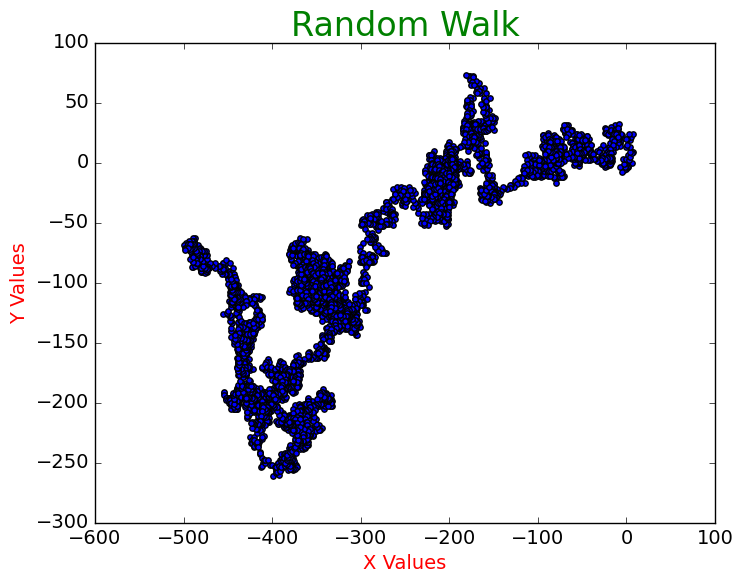
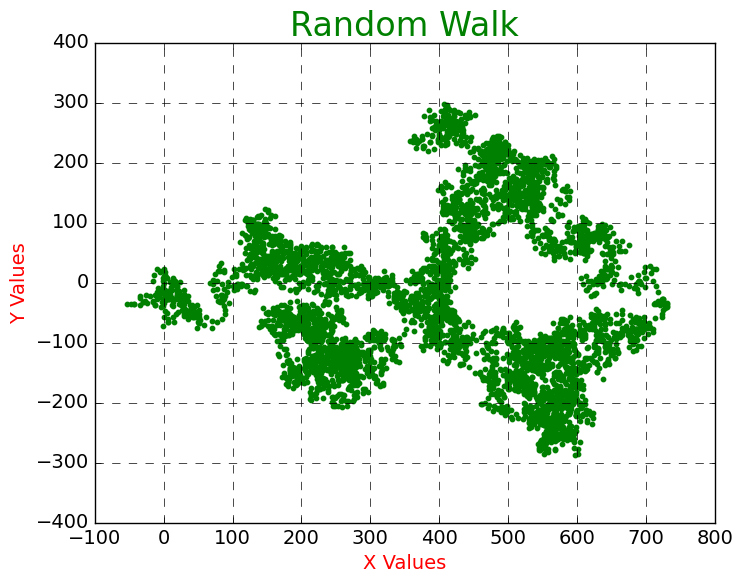
Random Walk Revision

diff --git a/Visualisation Projects/rw_visual.py b/Visualisation Projects/rw_visual.py
@@ -2,17 +2,25 @@ import matplotlib.pyplot as plt
 
 from RandomWalks import RandomWalk
 
+while True:
 # Make a Random Walk
-rw = RandomWalk()
-rw.fill_walk()
+    rw = RandomWalk()
+    rw.fill_walk()
 
-# Plot the points in the walk
-plt.style.use('classic')
-fig,ax = plt.subplots()
-ax.scatter(rw.x_values, rw.y_values, s=15)
-ax.set_title("Random Walk", fontsize=24, c="Green")
-ax.set_xlabel("X Values", fontsize=14, c="Red")
-ax.set_ylabel("Y Values", fontsize=14, c="Red")
-ax.tick_params(axis='both', which='major', labelsize=14)
-plt.savefig('RandomWalk.png', bbox_inches='tight')
-plt.show()
+    # Plot the points in the walk
+    plt.style.use('classic')
+    fig,ax = plt.subplots()
+    ax.scatter(rw.x_values, rw.y_values,s=10, color='Green')
+    ax.grid(True, linestyle='--', linewidth=0.5)
+    ax.set_title("Random Walk", fontsize=24, c="Green")
+    ax.set_xlabel("X Values", fontsize=14, c="Red")
+    ax.set_ylabel("Y Values", fontsize=14, c="Red")
+    ax.tick_params(axis='both', which='major', labelsize=14)
+    plt.savefig('RandomWalk.png', bbox_inches='tight')
+    plt.show()
+
+    keep_running = input("Make another walk? (y/n): ")
+    if keep_running == "n":
+        print("Thank you for generating the walks with us: ")
+        break
+

diff --git a/Visualisation Projects/RandomWalks.py b/Visualisation Projects/RandomWalks.py
@@ -29,11 +29,11 @@ class RandomWalk:
         while len(self.x_values) < self.num_points:
             # Decide which direction to go and how far to go in that direction.
             x_direction = choice([1, -1])
-            x_distance = choice([0, 1, 2, 3, 4])
+            x_distance = choice([0, 1, 2,3,4,5,6,7,8,9,10,11])
             x_step = x_direction * x_distance
 
             y_direction = choice([1, -1])
-            y_distance = choice([0, 1, 2, 3, 4])
+            y_distance = choice([0, 1, 2,3,4,5,6,7,8,9,10,11])
             y_step = y_direction * y_distance
 
             # Reject moves that go nowhere.
